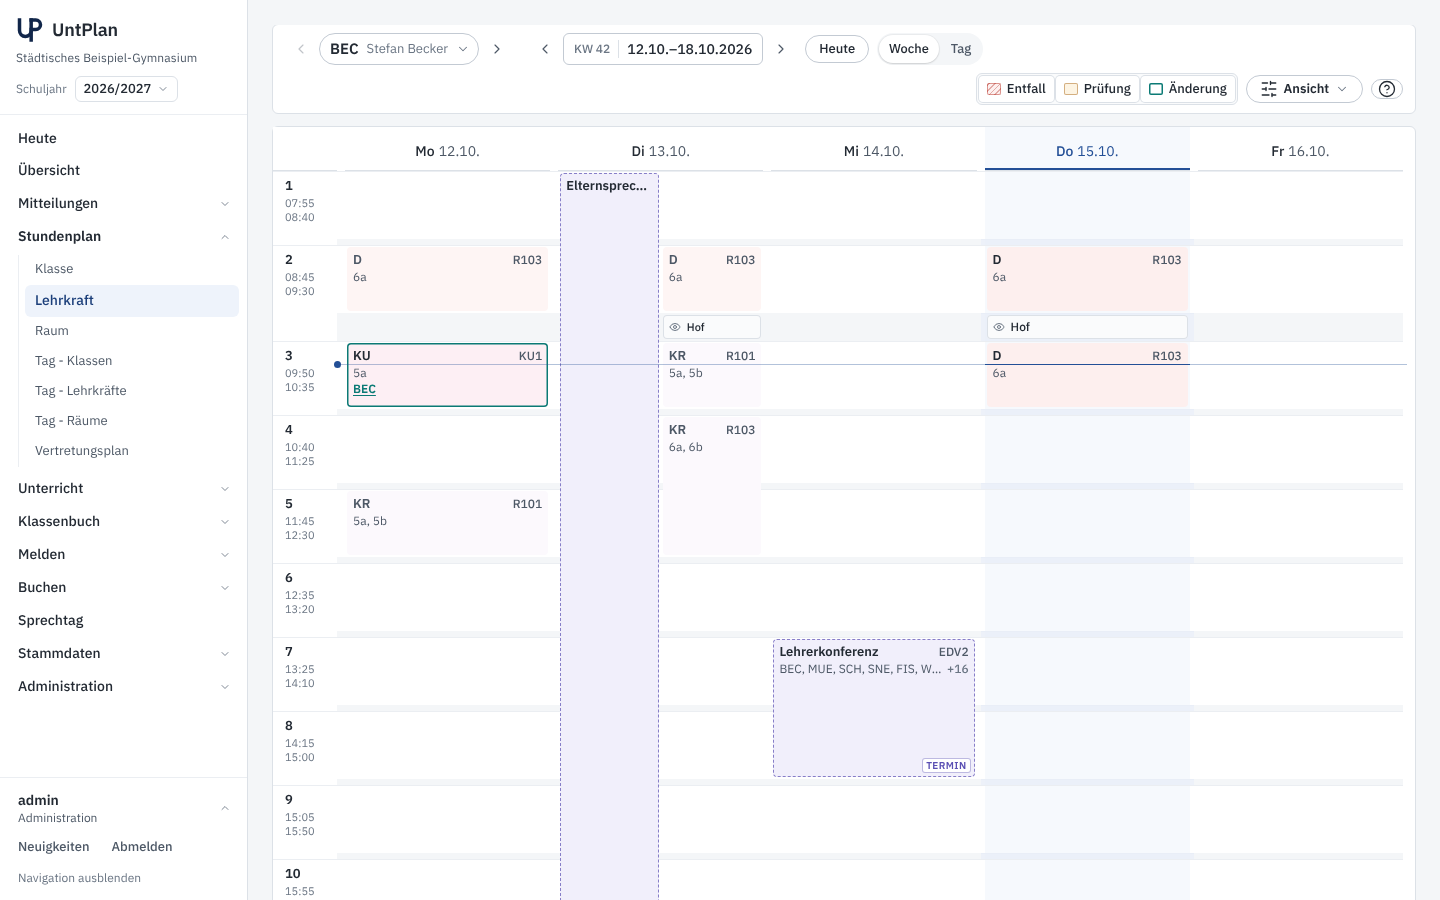
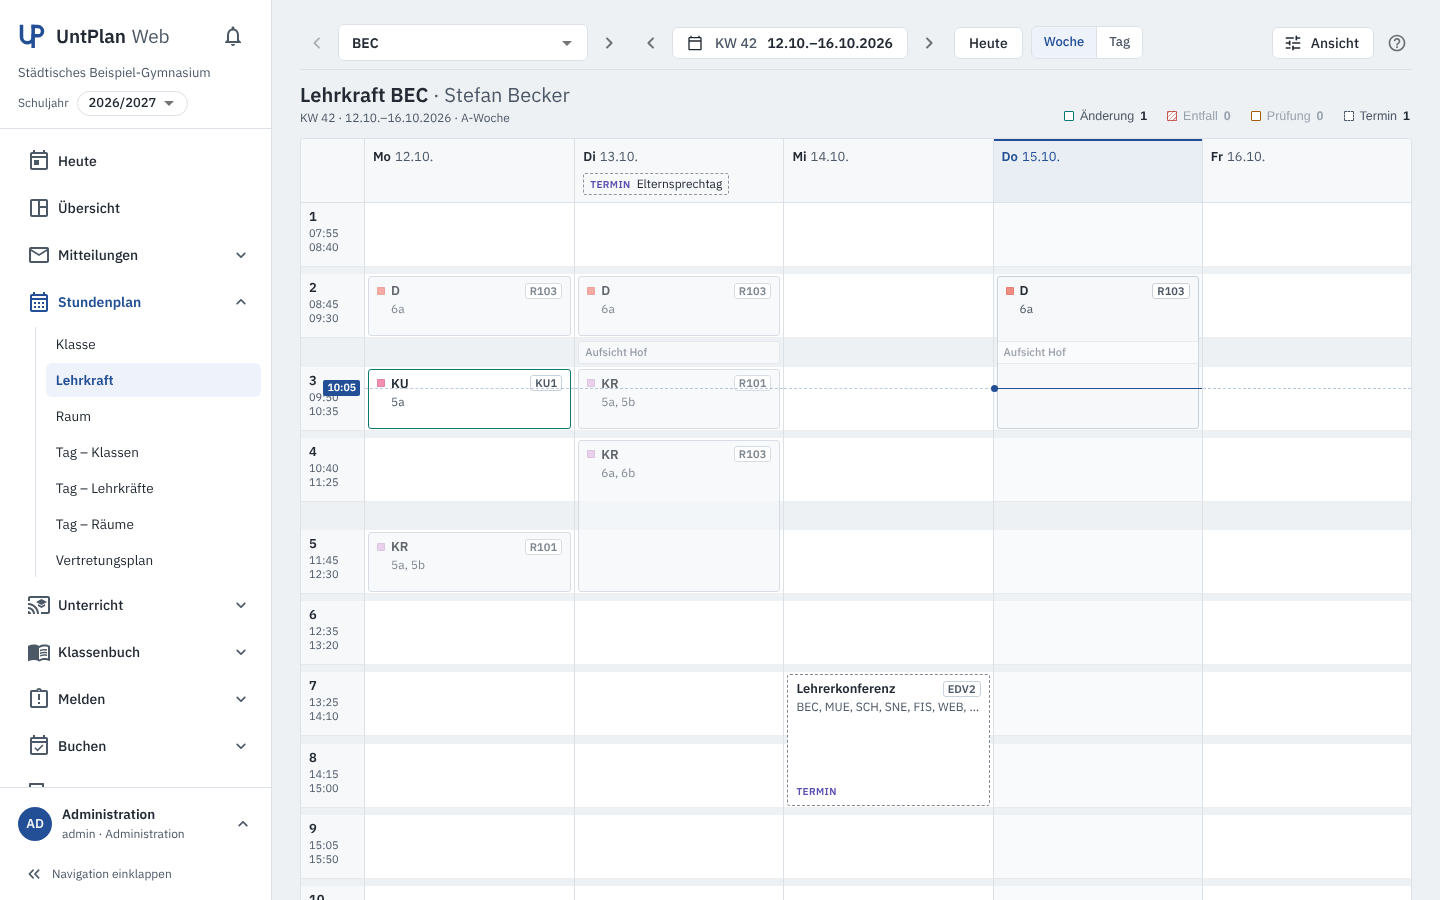
UntPlan Web: sachlicher Stundenplan – neutrale Kacheln mit Fachfarb-Quadrat, Kürzel als Labels, Status ohne Wörter, flache Werkzeugleiste [skip ci]
Claude-Session: https://claude.ai/code/session_01Qh4Tuihm3YFN8v1UQgn9UW

diff --git a/web/tests/UntPlanWeb.Tests/WebOberflaecheTests.cs b/web/tests/UntPlanWeb.Tests/WebOberflaecheTests.cs
@@ -84,6 +84,28 @@ public class WebOberflaecheTests
     }
 
     [Fact]
+    public void Stundenplan_sachlich_ohne_Pastellflaechen_und_ohne_Pillen()
+    {
+        // Kachel: neutrale Fläche, Fachfarbe nur als kleines Quadrat; Status über Linie/Schraffur/Kürzel-Plaketten statt Wörtern
+        var kachel = Lesen("src", "components", "plan", "Kachel.tsx");
+        Assert.Contains("FachQuadrat", kachel);
+        Assert.Contains("kachel.flaeche", kachel);
+        Assert.Contains("KACHEL_PLAKETTEN", kachel);
+        Assert.DoesNotContain("alpha(fach", kachel);
+        var logik = Lesen("src", "components", "plan", "logik.ts");
+        var erlaubt = Regex.Match(logik, @"KACHEL_PLAKETTEN = new Set\(\[([^\]]*)\]").Groups[1].Value;
+        Assert.NotEmpty(erlaubt);
+        foreach (var wort in new[] { "Entfall", "Offen", "Vertreten", "Zusatz" }) Assert.DoesNotContain($"'{wort}'", erlaubt);
+        Assert.Contains("art=\"offen\"", Lesen("src", "components", "plan", "Werte.tsx"));
+        // Thema: keine Pillenform, Karten höchstens 8 px
+        var thema = Lesen("src", "theme.ts");
+        Assert.DoesNotContain("999", thema);
+        Assert.Contains("shape: { borderRadius: 4 }", thema);
+        foreach (var datei in new[] { "Wochenraster.tsx", "Legende.tsx", "Kachel.tsx" })
+            Assert.DoesNotContain("borderRadius: 999", Lesen("src", "components", "plan", datei));
+    }
+
+    [Fact]
     public void Ohne_Fremdnamen_ohne_Orange_und_ohne_fette_Schrift()
     {
         var fremd = new string(new[] { 'u', 'n', 't', 'i', 's' });
